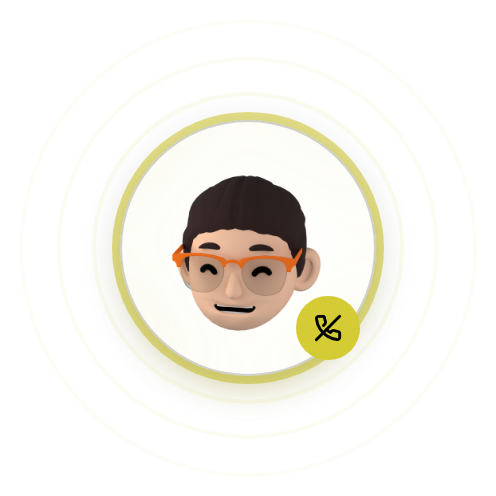
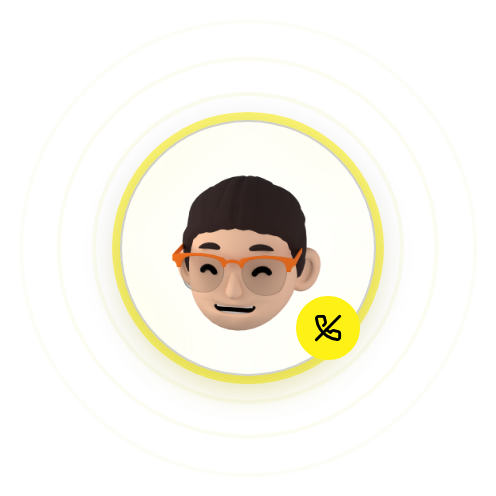
docs(skills): document mobile support widget raw vs wave colours
Clarify studio _build_mobile_html behaviour after mobile chrome fix.
Regenerate support-avatar.png for all leads.

diff --git a/scripts/early_access_avatars/__init__.py b/scripts/early_access_avatars/__init__.py
@@ -31,6 +31,7 @@ from ._config import (
     STUDIO_ROOT,
     get_lead,
     lead_output_path,
+    resolve_raw_montage_accent_hex,
     resolve_widget_wave_color,
     support_lead_output_path,
 )
@@ -136,7 +137,7 @@ def _render_support_lead(lead: dict, avatar_id: str) -> Path:
     params = {
         **SUPPORT_RENDER_DEFAULTS,
         "shirt_stamp": str(stamp),
-        "button_color": shirt_color,
+        "button_color": resolve_raw_montage_accent_hex(lead),
         "mesh_colors": {"Shirt_Color": shirt_color},
         "wave_color": resolve_widget_wave_color(lead),
     }

diff --git a/.cursor/skills/bizmis-lead-onboarding/SKILL.md b/.cursor/skills/bizmis-lead-onboarding/SKILL.md
@@ -389,7 +389,11 @@ generate_support_lead("newlead")
 # Override for testing: generate_lead("newlead", avatar_id="will")
 ```
 
-**Widget wave ring colour:** Python `resolve_widget_wave_color()` mirrors `deriveMontagePalette()` in `leadEarlyAccessEmailHtml.ts`: pick accent (primary if contrast on white ≥ 1.8, else `textColor` if it passes, else primary), apply caption correction (if contrast &lt; 2.4 clamp HSL lightness ≤ 52 and saturation ≤ 65), then if still extremely light (luminance &gt; 0.85) use slate `#475569`. That hex is passed as `--wave-color` to Blender so the ring matches the email (policy chip, montage product accent, waveforms).
+**Support mobile widget colours (Blender + Playwright):** The landing pipeline passes **raw** accent as `button_color` and **corrected** accent as `wave_color`. In the studio repo, the **mobile** HTML composite used to ignore `button_color` and tint every ring/icon from `wave_color` only — that is fixed: `_composite_widget_ui` passes `ui_accent_hex=button_color` into `_build_mobile_html`, so the outer ring, idle ring, and floating icon use the raw brand colour; only the `.voice-wave` rings use `wave_color`. **Shirt mesh** still uses `shirt_color` from the registry.
+
+**Colour resolution:** `resolve_raw_montage_accent_hex` → `--button-color` (raw UI). `resolve_widget_wave_color()` mirrors `deriveMontagePalette()` in `leadEarlyAccessEmailHtml.ts` for `--wave-color` only: pick accent (primary if contrast on white ≥ 1.8, else `textColor` if it passes, else primary), apply caption correction (if contrast &lt; 2.4 clamp HSL lightness ≤ 52 and saturation ≤ 65), then if still extremely light (luminance &gt; 0.85) use slate `#475569`.
+
+**Assisted-sales avatars** keep `button_color` = `shirt_color` (shirt and desktop widget stay aligned with the curated shirt colour).
 
 See the [Bizmis Avatar Render skill](../../skills/bizmis-avatar-render/SKILL.md) for details and troubleshooting.
 

diff --git a/.cursor/skills/bizmis-avatar-render/SKILL.md b/.cursor/skills/bizmis-avatar-render/SKILL.md
@@ -85,8 +85,14 @@ Always use the **studio venv** (it has Blender bindings, Playwright, Pillow):
 3. **Merge params** → universal `RENDER_DEFAULTS` + per-lead `shirt_color`
    (falling back to `primary_color`) for shirt mesh, widget button, and stamp
 4. **Render** → calls `render_avatar()` from the studio repo (Blender headless
-   - Playwright widget composite)
+   + Playwright widget composite)
 5. **Output** → `public/invite-cards/leads/<id>/sales-avatar.png`
+
+**Support** (`generate_support_lead` / `SUPPORT_RENDER_DEFAULTS`): same stamp
+resolution; mobile Playwright composite uses `button_color` (raw montage accent)
+for ring/icon chrome and `wave_color` (corrected) only for the animated
+voice-wave rings — see `render_store_clerk._build_mobile_html`. Output:
+`public/invite-cards/leads/<id>/support-avatar.png`.
 
 ## Configuration
 
